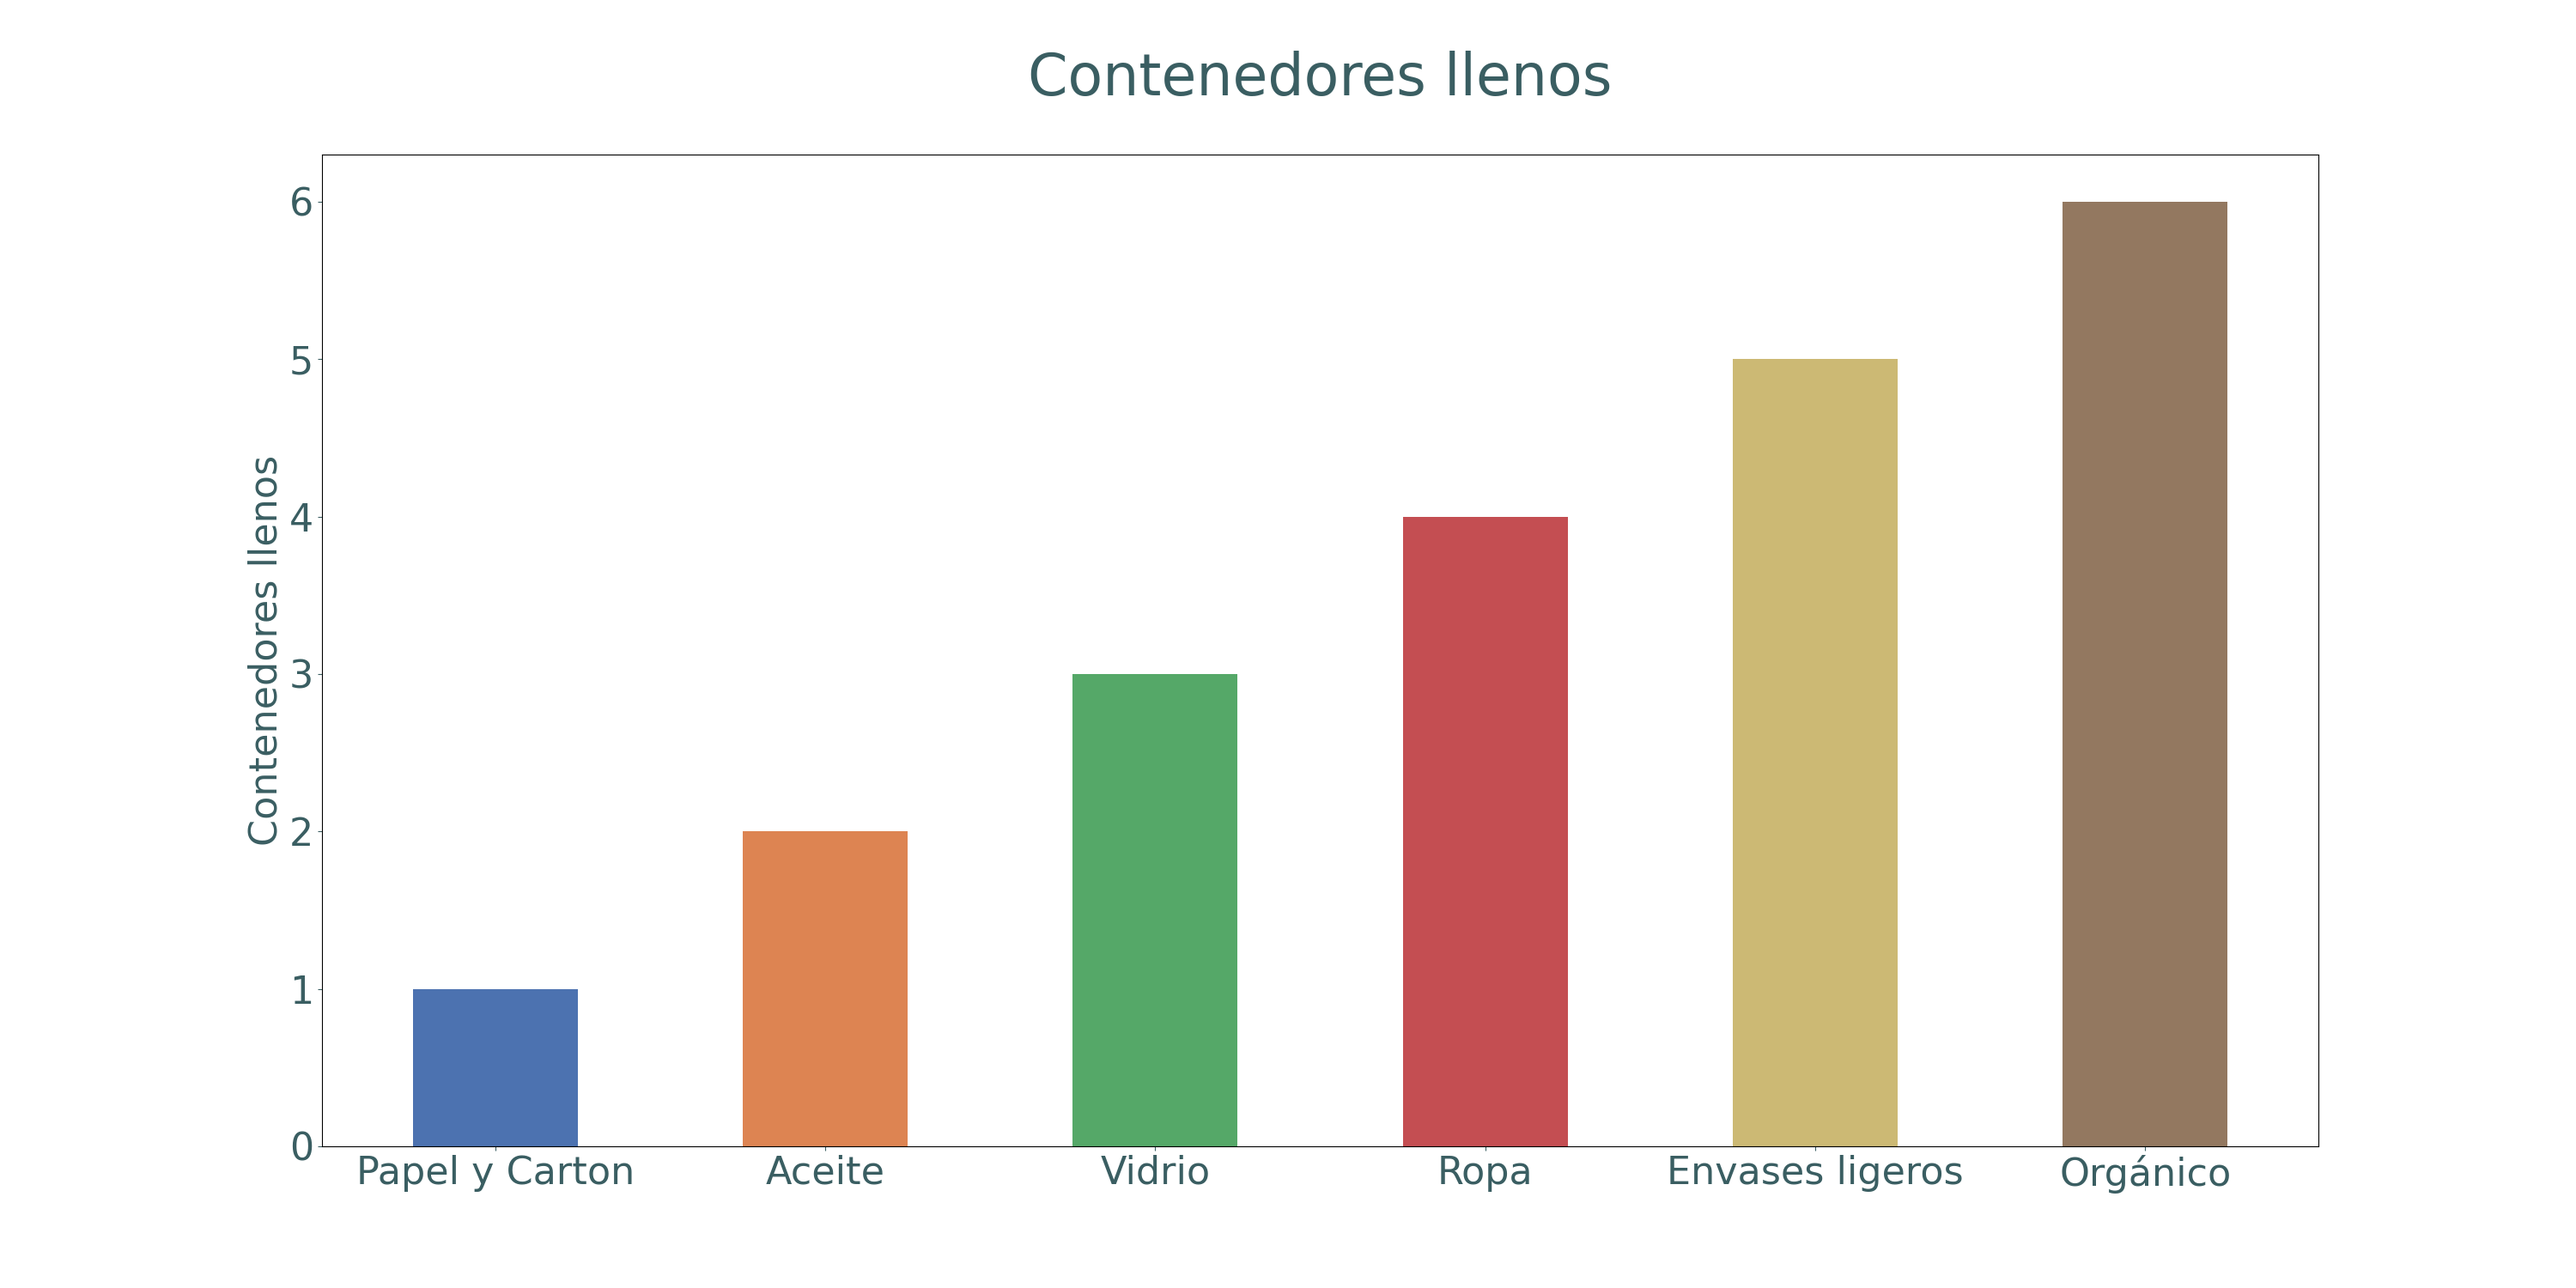
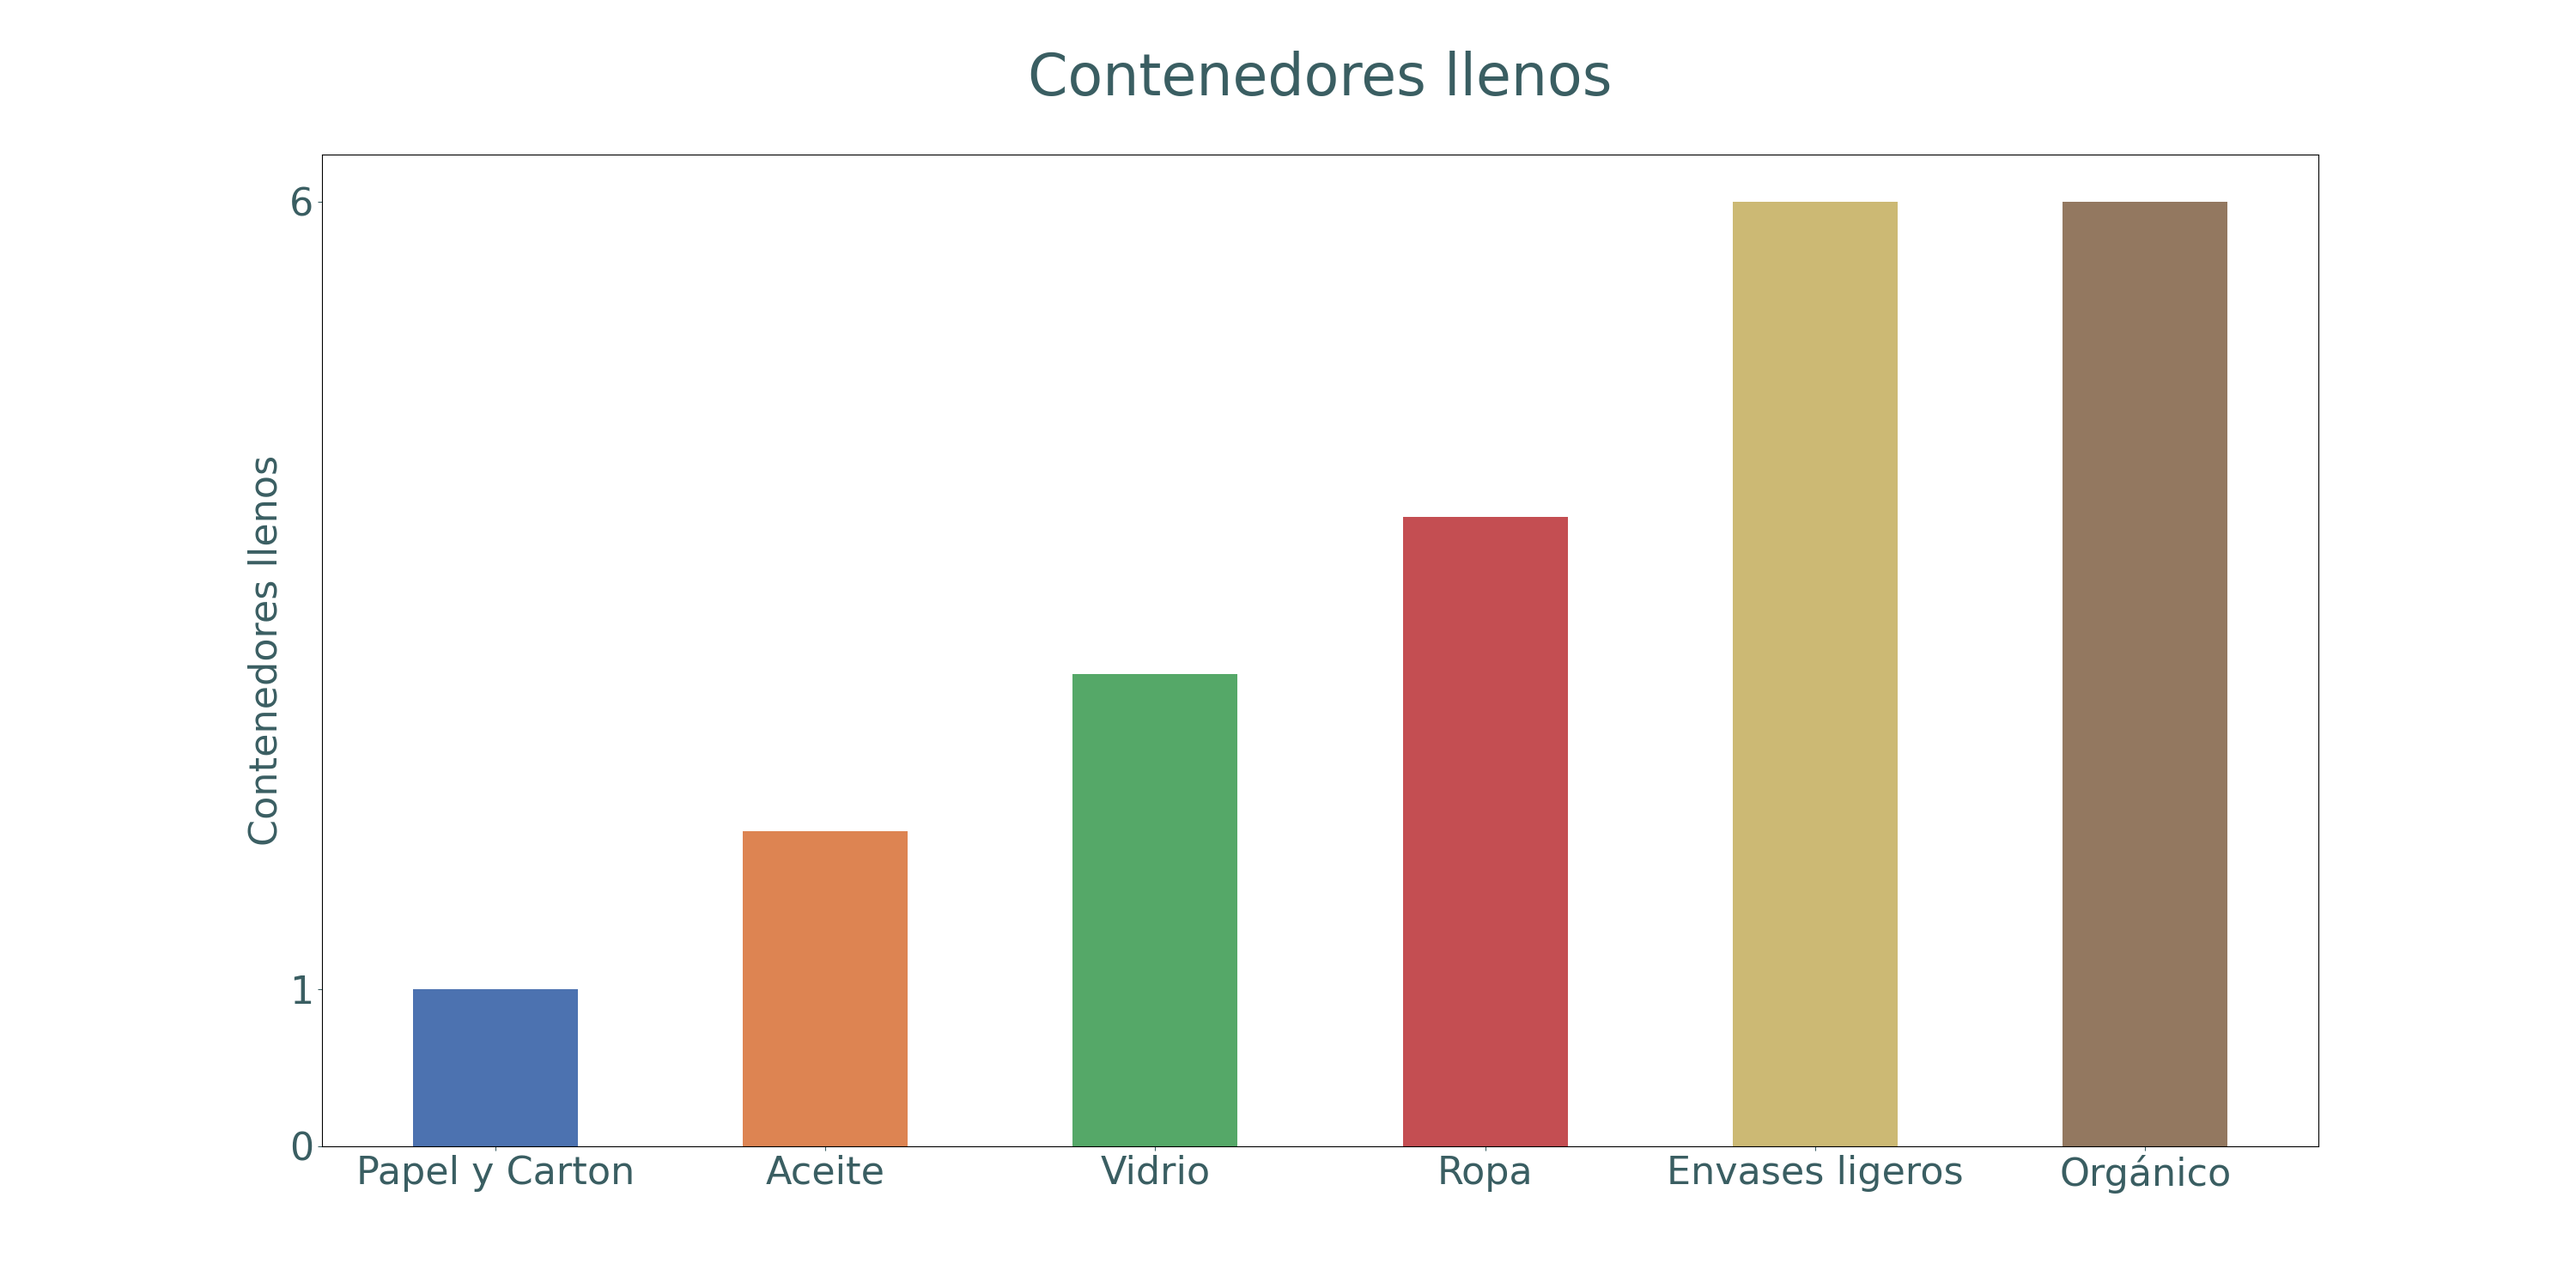
Estadisticas acabadas, corrección de vista-inc-org.functions en el metodo getAllInquiries()

Changed region(s): [[0.651, 0.1533, 0.744, 0.276]]

diff --git a/src/app/stats/stats.functions.ts b/src/app/stats/stats.functions.ts
@@ -1,8 +1,7 @@
 import { execSync } from 'child_process'
-// CAMBIAR 
-//import { searchContainers } from '../map/map.functions' 
-import { supabaseClient } from '../../supabase_client'
+import { searchContainers } from '../map/map.functions' 
 import { getAllInquiries } from '../vista-inc-org/vista-inc-org.functions'
+
 
 
 interface ContainerInfo {
@@ -17,18 +16,16 @@ export async function getStats() : Promise<void> {
         searchContainers().then((data)=> {
             recogeStatsContainer(data).then((data) => 
                 {
-                    console.log(data)
-                    // CAMBIAR
-                    execSync("python3 ../app/stats/get_stats.py " + data, {encoding : 'utf-8', stdio : 'inherit'})
+                    execSync('python3 ./get_stats.py -c [' + data + ']', {encoding : 'utf-8', stdio : 'inherit'})
                 }
             )
         })
         getAllInquiries().then((data)=> {
-            recogeStatsStreets(data).then((data) => 
+            recogeStatsStreets(data).then(([calles, valor]) => 
                 {
-                    console.log(data)
-                    // CAMBIAR
-                    execSync("python3 ../app/stats/get_stats.py " + data, {encoding : 'utf-8', stdio : 'inherit'})
+                    let value = "[" + valor + "] "
+                    let street = '"' + calles + '"'
+                    execSync("python3 ./get_stats.py -s " + value +  " st " + street, {encoding : 'utf-8', stdio : 'inherit'})
                 }
             )
         })
@@ -53,18 +50,21 @@ async function recogeStatsContainer(diccionario_container : {[clave:string]:Cont
     return result
 }
 
-async function recogeStatsStreets(diccionario_inquiries : {[clave:string]:string}[]) : Promise<{[clave:string]:number}> {
+async function recogeStatsStreets(diccionario_inquiries : {[clave:string]:string}[]) : Promise<[string[],number[]]> {
     let diccionario_stats : {[clave:string]:number} = {}
     for(let inquirie_item of diccionario_inquiries){
+        if(inquirie_item["geo_shape"] == null || inquirie_item["geo_shape"].search(/\,/g) != -1){
+            continue  
+        } 
         if(diccionario_stats[inquirie_item["geo_shape"]]){
             diccionario_stats[inquirie_item["geo_shape"]] = diccionario_stats[inquirie_item["geo_shape"]] + 1
         }
         else{
-            diccionario_stats[inquirie_item["geo_shape"]] = 0
+            diccionario_stats[inquirie_item["geo_shape"]] = 1
         }
     }
 
-    const sortedValues = Object.values(diccionario_stats).sort();
+    //const sortedValues = Object.values(diccionario_stats).sort();
 
     // COMPLETAR
     
@@ -72,54 +72,6 @@ async function recogeStatsStreets(diccionario_inquiries : {[clave:string]:string
     // sortedValues.forEach(value => {
     // sortedDict[value] = diccionario_stats[value]
     // });
-    
-    return diccionario_stats
-}
-
-// CAMBIAR QUITAR
-async function searchContainers(): Promise<{[clave: string]: ContainerInfo[]}> {
-    //tipos de contenedores sobre los que se va a hacer la consulta
-    const containers: string [] = [
-        'battery_containers', 
-        'clothes_containers',
-        'glass_containers', 
-        'oil_containers',
-        'waste_containers', 
-    ]
-    let result: {[clave: string]: ContainerInfo[]} = {}
-    try {
-        for (const containerTypeSearch of containers) {
-            const fieldsNeeded = containerTypeSearch === 'waste_containers' ? 'geo_point_2d, objectid, is_full, container_type' : 'geo_point_2d, objectid, is_full';
-            const { data, error } = await supabaseClient
-                .from(containerTypeSearch)
-                .select(fieldsNeeded);
-
-            if (error) {
-                throw new Error(`Error al consultar el contenedor ${containerTypeSearch}: ${error.message}`);
-            }
-            if (data) {
-                for (const element of data) {
-                    let type = (element as any).container_type || containerTypeSearch
-                    let container: ContainerInfo = {
-                        container_id: (element as any).objectid,
-                        location: (element as any).geo_point_2d,
-                        is_full: (element as any).is_full
-                    }
-                    if (!result[type]) {
-                        result[type] = [container]
-                    } else {
-                        result[type].push(container)
-                    }
-                }
-            }
-        }
-    } catch (error) {
-        console.error('Error inesperado:', (error as Error).message);
-        throw error;
-    }
-    
-    // Una vez se guarda el diccionario con todos los contenedores, lo transformamos a un objeto local
-    
-    return result;
+    return [Object.keys(diccionario_stats),Object.values(diccionario_stats)]
 
 }

diff --git a/src/db_functions/pruebas.ts b/src/db_functions/pruebas.ts
@@ -9,16 +9,16 @@ import { getFullName } from "../app/profile-user/profile-user.functions";
 //import { seleccionarImagen } from "../app/nueva-incidencia/nueva-incidencia.functions";
 import { getStats } from "../app/stats/stats.functions";
 
-//getStats()
- async function prueba(){
-     const {data, error} =  await supabaseClient.auth.signUp({ email: "valencia@organizacion.com", password : "00000000", options: {data : { cif : "DANIVEGOÑA", city : "Valencia", organization_name : "GVA", phone_number : "654123798"}}  })
+getStats()
+//  async function prueba(){
+//      const {data, error} =  await supabaseClient.auth.signUp({ email: "valencia@organizacion.com", password : "00000000", options: {data : { cif : "DANIVEGOÑA", city : "Valencia", organization_name : "GVA", phone_number : "654123798"}}  })
 
-       if (error){
-           console.log("Ha habido un error")
-           console.log(error)
-       }
-   }
-   prueba()
+//        if (error){
+//            console.log("Ha habido un error")
+//            console.log(error)
+//        }
+//    }
+//    prueba()
 //signUpUser("maxkaidanov2@gmail.com","00000000","Max Latoncioso", "000641222")
 
 

diff --git a/src/app/vista-inc-org/vista-inc-org.functions.ts b/src/app/vista-inc-org/vista-inc-org.functions.ts
@@ -3,15 +3,7 @@ import { supabaseClient } from "../../supabase_client";
 export async function getAllInquiries() : Promise<{[clave:string]:string}[]> {
     try{
         let result : {[clave:string]:string}[] = []
-        
-        const {data: {user}, error: errorUsuario} = await supabaseClient.auth.getUser()
-        
-        if (errorUsuario) {
-             throw new Error('No se ha encontrado un usuario autenticado')
-         }
-        // CODIGO A QUITAR
-        console.log("Usuario encontrado")
-        
+    
         const {data, error} = await supabaseClient
             .from('inquiries')
             .select('created_at, description, type, geo_shape')

diff --git a/src/app/stats/get_stats.py b/src/app/stats/get_stats.py
@@ -4,6 +4,8 @@ import seaborn as sns
 import pandas as pd
 import matplotlib.pyplot as plt
 import matplotlib.colors as cl
+import argparse
+import json
 
 
 def get_stat_container(data):
@@ -17,14 +19,14 @@ def get_stat_container(data):
     colors[4] = "#ccb974"
     fig, ax = plt.subplots(figsize=(30, 15))
 
-    print(">>Generando diagrama de barras")
+    print(">>Generando diagrama de barras contenedores")
     ax.bar(x ,data, width * 0.5, color=colors)
 
     plt.xticks(ticks= x, labels= contenedores, fontsize=32)
     ax.set_ylabel('Contenedores llenos',fontsize=32, color = '#3a5e62')
     ax.tick_params(axis='both', labelsize=32, colors = '#3a5e62')
 
-    max_value = max(data)
+    max_value = np.max(data)
     plt.yticks([0,max_value,1])
     
     plt.title("Contenedores llenos", fontsize = 48, pad = 50, color = '#3a5e62')
@@ -32,17 +34,61 @@ def get_stat_container(data):
 
     plt.savefig('./stats_containers.png', format='png', transparent = True)
 
-    print(">>Diagrama generado")
+    print(">>Diagrama generado de contenedores")
 
     plt.cla()
 
-def get_stat_street(data):
+def get_stat_street(data, street):
 
+    width = 0.15   
+    x = np.arange(len(street))
+    x = x * width
+
+    colors = sns.color_palette("deep",len(street))
+    fig, ax = plt.subplots(figsize=(30, 15))
+
+    print(">>Generando diagrama de barras de calles")
+    print(x)
+    ax.bar(x ,data, width * 0.5, color=colors)
+
+    plt.xticks(ticks= x, labels= street, fontsize=32)
+    ax.set_ylabel('Contenedores llenos',fontsize=32, color = '#3a5e62')
+    ax.tick_params(axis='both', labelsize=32, colors = '#3a5e62')
+
+
+    plt.yticks([0,1,1])
     
-    pass
+    plt.title("Cantidad de incidencias", fontsize = 48, pad = 50, color = '#3a5e62')
+    
+
+    plt.savefig('./stats_inquiries.png', format='png', transparent = True)
+
+    print(">>Diagrama generado de calles")
+
+    plt.cla()
     
 if __name__ == "__main__":
+    print(">> Inicio script")
+    parser = argparse.ArgumentParser()   
+    parser.add_argument('-c', '--container' , action = 'store_true')     
+    parser.add_argument('-s', '--street'    , action='store_true')
+    parser.add_argument("array", action = 'store')
+    subparsers = parser.add_subparsers(help="Subparser para la opcion de calles")
 
-    array = sys.argv[1].split(",")
-    array = list(map(lambda data : int(data) ,array))
-    get_stat_container(array)
+    parser_a = subparsers.add_parser('st', help='a help')
+    parser_a.add_argument('streets',type=str, help='bar help')
+    
+
+    args = parser.parse_args()
+    array = json.loads(args.array)
+
+    if(args.container):
+        print(">> Contenedor")
+        get_stat_container(array)
+
+    if(args.street):
+        print(">> Calles")
+        print(args.streets.split(","))
+        get_stat_street(array,args.streets.split(","))
+
+    
